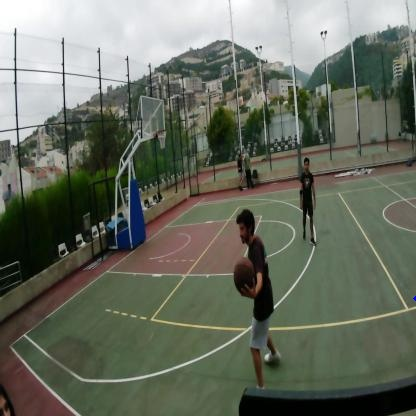
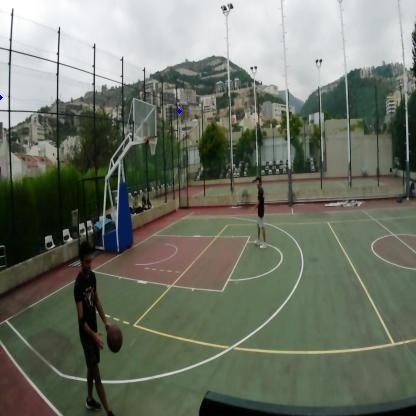
testing

diff --git a/yolov8_detection.py b/yolov8_detection.py
@@ -12,9 +12,9 @@ logging.basicConfig(level=logging.INFO)
 logger = logging.getLogger("EdgeTPUModel")
 
 script_dir = pathlib.Path(__file__).parent.absolute()
-model_file = os.path.join(script_dir, 'models-edgetpu/yolov8s-224-D1_edgetpu.tflite')
+model_file = os.path.join(script_dir, 'models-edgetpu/yolov5s-224-D1_edgetpu.tflite')
 label_file = os.path.join(script_dir, 'labelmap.txt')
-image_file = os.path.join(script_dir, 'image1.jpg')
+image_file = os.path.join(script_dir, 'image3.jpg')
 
 with open(label_file, 'r') as f:
     cfg = yaml.load(f, Loader=yaml.SafeLoader)
